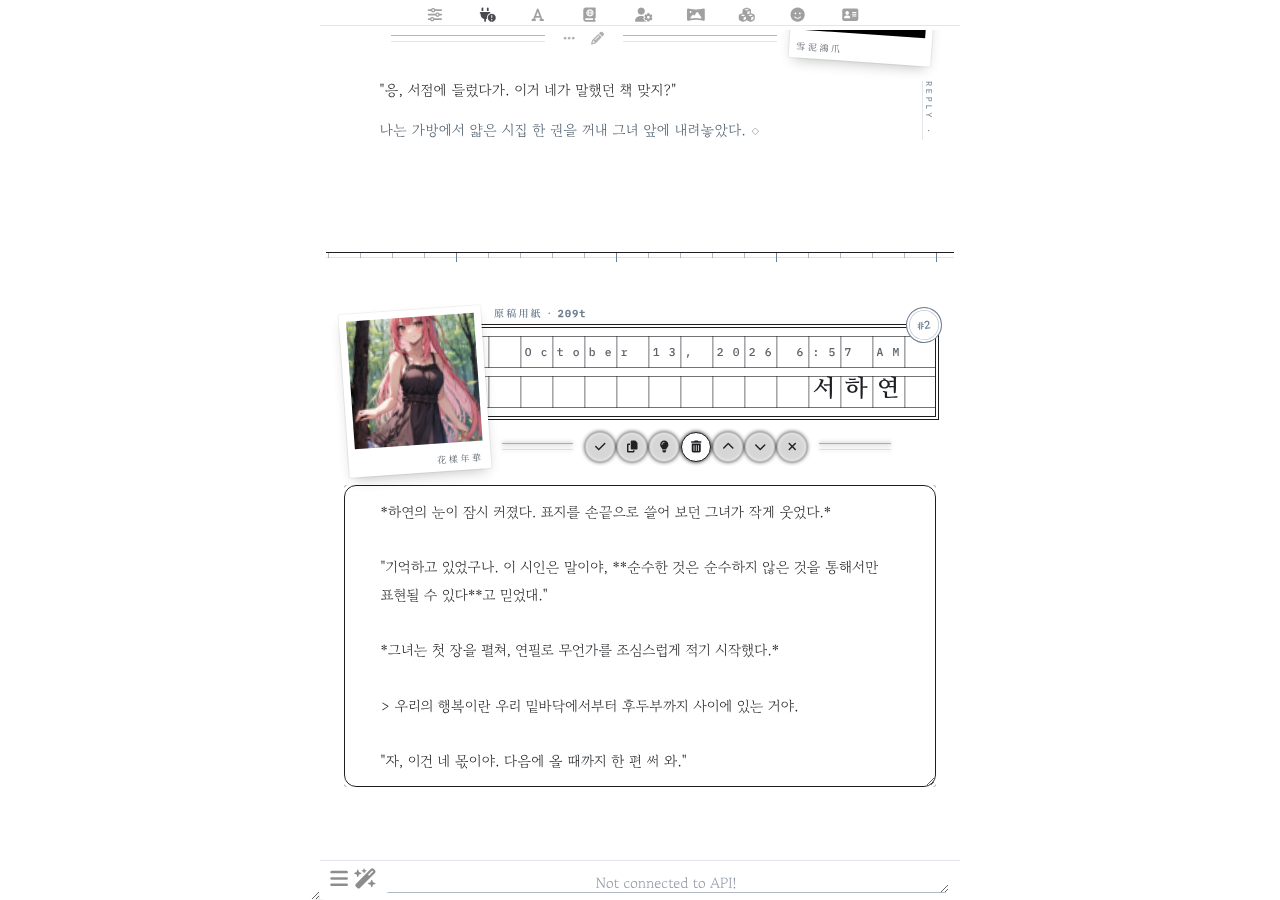
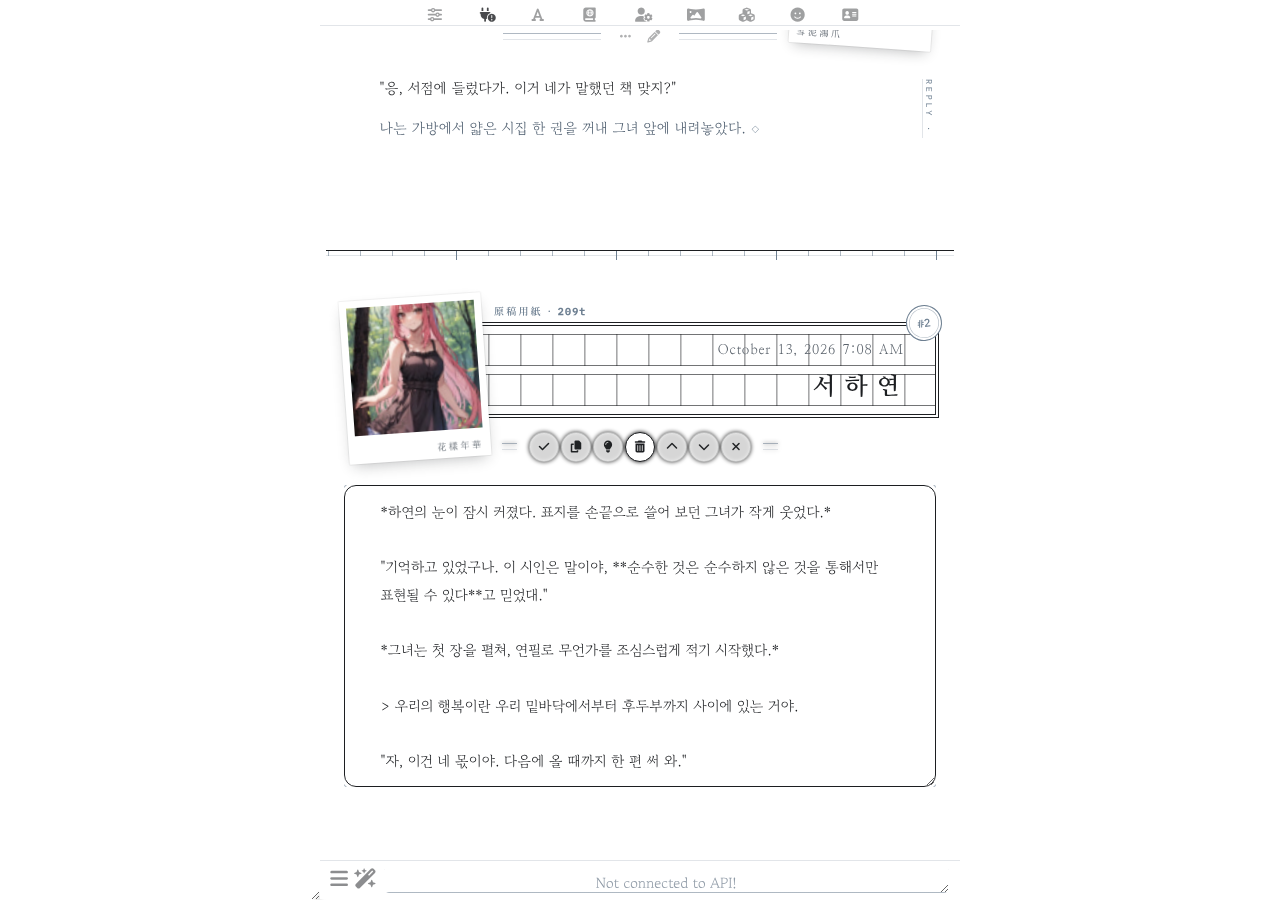
Wongoji: centre polaroid on the band, centred buttons, serif Latin
- Message laid out as a grid; the polaroid sits in the band's row,
  vertically centred on it however many rows the band grows to
- Message buttons centred between band and body
- Name text nudged down 0.055em so Myeongjo ink sits at cell centre
- Latin in names uses Courier Prime (serif monospace) for the half-cell
  face; the date is set in Nanum Myeongjo with tight tracking
- Polaroid caption moved onto the avatar so it follows the photo

Claude-Session: https://claude.ai/code/session_01VxNZVdN99GR1yFwUVAN4mT

diff --git a/src/wongoji.css b/src/wongoji.css
@@ -1,11 +1,20 @@
 @import url('https://fonts.googleapis.com/css2?family=Gowun+Batang:wght@400;700&family=Nanum+Myeongjo:wght@400;700;800&family=Noto+Serif+KR:wght@400;600&family=IBM+Plex+Mono:wght@400;500&display=swap');
 
 /* 원고지 칸 글꼴 — 한글은 나눔명조(한 칸), 영문·숫자·문장부호·띄어쓰기는
-   크기를 줄인 고정폭 글꼴(반 칸). 원고지 규칙대로 영문·숫자는 한 칸에 두 자. */
+   크기를 줄인 고정폭 명조(Courier Prime, 반 칸). 원고지 규칙대로 영문·숫자는 한 칸에 두 자. */
 @font-face {
     font-family: 'WG Cell Latin';
-    src: url(https://fonts.gstatic.com/s/ibmplexmono/v20/-F6qfjptAgt5VM-kVkqdyU8n3twJwlBFgg.woff2) format('woff2');
-    font-weight: 100 900;
+    src: url(https://fonts.gstatic.com/s/courierprime/v11/u-450q2lgwslOqpF_6gQ8kELawFpWg.woff2) format('woff2');
+    font-weight: 400;
+    unicode-range: U+0000-00FF, U+0131, U+0152-0153, U+02BB-02BC, U+02C6, U+02DA, U+02DC, U+2000-206F, U+20AC, U+2122;
+    size-adjust: 47.222%;
+    font-display: swap;
+}
+
+@font-face {
+    font-family: 'WG Cell Latin';
+    src: url(https://fonts.gstatic.com/s/courierprime/v11/u-4k0q2lgwslOqpF_6gQ8kELY7pMT-Dfqw.woff2) format('woff2');
+    font-weight: 700;
     unicode-range: U+0000-00FF, U+0131, U+0152-0153, U+02BB-02BC, U+02C6, U+02DA, U+02DC, U+2000-206F, U+20AC, U+2122;
     size-adjust: 47.222%;
     font-display: swap;
@@ -192,7 +201,6 @@ body {
     --wg-pitch: calc(var(--wg-cell) + var(--wg-gap));
     --wg-pol-w: calc(var(--wg-photo) + var(--wg-frame) * 2);
     --wg-pol-h: calc(var(--wg-photo) + var(--wg-frame) + var(--wg-chin));
-    --wg-pol-top: calc(var(--wg-pad) - var(--wg-cell) * 0.55);
     --wg-band-near: calc(var(--wg-side) + var(--wg-pol-w) * 0.42);
     --wg-band-far: var(--wg-side);
     /* 칸 글꼴: 글자 크기 = 칸의 75%.
@@ -205,7 +213,13 @@ body {
     --wg-band-frame: var(--wg-ink);
     --wg-band-line: rgba(28, 30, 33, 0.62);
 
-    display: block;
+    /* 1행: 폴라로이드 + 원고지 띠 / 2행: 버튼 / 그 아래: 본문 */
+    display: grid;
+    grid-template-columns:
+        calc(var(--wg-pol-w) * 0.42)
+        calc(var(--wg-pol-w) * 0.58)
+        minmax(0, 1fr);
+    align-items: start;
     position: relative;
     padding: var(--wg-pad) var(--wg-side) var(--wg-after);
     margin: 0;
@@ -235,40 +249,52 @@ body {
 }
 
 /* 폴라로이드 아래 글씨 — 아바타와 같은 상자를 같은 각도로 */
-#chat .mes::after {
+#chat .mes .avatar::after {
     content: var(--wg-caption-char);
     position: absolute;
-    top: var(--wg-pol-top);
-    left: var(--wg-side);
-    width: var(--wg-pol-w);
-    height: var(--wg-pol-h);
-    box-sizing: border-box;
-    /* 아래 여백의 오른쪽 구석에 작게 */
-    padding: calc(var(--wg-photo) + var(--wg-frame) + var(--wg-chin) * 0.38) var(--wg-frame) 0;
-    transform: rotate(var(--wg-tilt));
+    left: var(--wg-frame);
+    right: var(--wg-frame);
+    bottom: calc(var(--wg-chin) * 0.2);
     text-align: right;
     font-family: var(--wg-hanja);
     font-size: calc(var(--wg-chin) * 0.32);
     font-weight: 400;
     letter-spacing: 0.3em;
-    line-height: calc(var(--wg-chin) * 0.45);
+    line-height: 1.2;
     color: var(--wg-ink-soft);
     white-space: nowrap;
     overflow: hidden;
-    text-overflow: ellipsis;
     pointer-events: none;
-    z-index: 3;
 }
 
-#chat .mes .mesAvatarWrapper {
+#chat .mes .mesAvatarWrapper,
+#chat .mes .mes_block,
+#chat .mes .ch_name,
+#chat .mes .ch_name > .flex-container {
     display: contents;
 }
 
+#chat .mes .for_checkbox {
+    position: absolute;
+    width: 0;
+    height: 0;
+}
+
+#chat .mes .mes_reasoning_details { grid-row: 3; grid-column: 1 / -1; }
+#chat .mes .mes_text              { grid-row: 4; grid-column: 1 / -1; }
+#chat .mes .mes_media_wrapper     { grid-row: 5; grid-column: 1 / -1; }
+#chat .mes .mes_file_wrapper      { grid-row: 6; grid-column: 1 / -1; }
+#chat .mes .mes_bias              { grid-row: 7; grid-column: 1 / -1; }
+
 /* 폴라로이드 */
 #chat .mes .avatar {
-    position: absolute;
-    top: var(--wg-pol-top);
-    left: var(--wg-side);
+    /* 띠 높이와 상관없이 띠의 세로 가운데에. 위아래 음수 여백으로 행 높이에는 끼어들지 않습니다 */
+    grid-row: 1;
+    grid-column: 1 / 3;
+    align-self: center;
+    justify-self: start;
+    position: relative;
+    margin: calc(var(--wg-pol-h) / -2) 0;
     width: var(--wg-pol-w);
     height: var(--wg-pol-h);
     box-sizing: border-box;
@@ -320,9 +346,14 @@ body {
 /* 날짜 — 이름 위 줄 */
 #chat .mes .timestamp {
     order: -1;
-    color: var(--wg-ink-soft);
+    /* 날짜는 칸에 맞추지 않고 명조로 촘촘하게 */
+    font-family: var(--wg-title) !important;
+    font-size: calc(var(--wg-cell) * 0.42) !important;
     font-weight: 400;
-    word-spacing: 0;
+    letter-spacing: 0.06em !important;
+    word-spacing: 0.12em;
+    color: var(--wg-ink-soft);
+    padding-right: calc(var(--wg-cell) * 0.15) !important;
 }
 
 #chat .mes .mes_timer {
@@ -412,6 +443,8 @@ body.no-tokenCount #chat .mes .ch_name::after {
 
 #chat .mes .ch_name > .flex-container > .flex-container {
     --wg-k: 1;                    /* 끝에서 비워 둘 칸 */
+    grid-row: 1;
+    grid-column: 2 / 4;
     position: relative;
     box-sizing: border-box;
     display: flex;
@@ -419,7 +452,7 @@ body.no-tokenCount #chat .mes .ch_name::after {
     align-items: flex-end;
     gap: 0;
     width: auto;
-    margin: 0 0 14px calc(var(--wg-band-near) - var(--wg-side));
+    margin: 0 0 16px;
     /* 폴라로이드 쪽은 가리지 않도록 비우고, 끝은 칸 경계에 맞춥니다 */
     padding:
         calc(var(--wg-gap) / 2)
@@ -468,6 +501,9 @@ body.no-tokenCount #chat .mes .ch_name::after {
 }
 
 #chat .mes .name_text {
+    position: relative;
+    /* 명조 한글의 먹 중심이 줄 가운데보다 0.055em 위에 있어 그만큼 내립니다 */
+    top: 0.055em;
     font-weight: 700;
     /* 띄어쓰기도 한 칸 */
     word-spacing: calc(var(--wg-cell) / 2);
@@ -490,21 +526,6 @@ body.no-tokenCount #chat .mes .ch_name::after {
     overflow: visible;
 }
 
-#chat .mes .ch_name {
-    display: flex;
-    flex-direction: column;
-    align-items: center;
-    min-height: 0;
-    gap: 0;
-}
-
-#chat .mes .ch_name > .flex-container {
-    flex: none;
-    display: block;
-    align-self: stretch;
-    height: auto;
-}
-
 /* 메시지 버튼 — 띠와 본문 사이, 양옆으로 가는 괘선을 그은 구분 줄 */
 #chat .mes .mes_buttons,
 #chat .mes .mes_edit_buttons {
@@ -513,8 +534,10 @@ body.no-tokenCount #chat .mes .ch_name::after {
     align-self: stretch;
     float: none;
     gap: 2px;
-    /* 폴라로이드 자리를 비워 둡니다 */
-    margin: 0 var(--wg-measure) 18px calc(var(--wg-pol-w) + 6px);
+    grid-row: 2;
+    grid-column: 1 / -1;
+    /* 가운데 정렬. 폴라로이드가 내려와도 겹치지 않게 양쪽을 똑같이 비웁니다 */
+    margin: 0 calc(var(--wg-pol-w) + 6px) 18px;
     min-height: 36px;
     overflow: visible;
 }
@@ -905,20 +928,27 @@ body.no-tokenCount #chat .mes .ch_name::after {
         0 4px;
 }
 
-#chat .mes[is_user="true"]::after {
+#chat .mes[is_user="true"] {
+    grid-template-columns:
+        minmax(0, 1fr)
+        calc(var(--wg-pol-w) * 0.58)
+        calc(var(--wg-pol-w) * 0.42);
+}
+
+#chat .mes[is_user="true"] .avatar {
+    grid-column: 2 / 4;
+    justify-self: end;
+}
+
+#chat .mes[is_user="true"] .avatar::after {
     content: var(--wg-caption-user);
     text-align: left;
 }
 
-#chat .mes[is_user="true"]::after,
-#chat .mes[is_user="true"] .avatar {
-    left: auto;
-    right: var(--wg-side);
-}
-
 #chat .mes[is_user="true"] .ch_name > .flex-container > .flex-container {
     align-items: flex-start;
-    margin: 0 calc(var(--wg-band-near) - var(--wg-side)) 14px 0;
+    grid-column: 1 / 3;
+    margin: 0 0 16px;
     padding:
         calc(var(--wg-gap) / 2)
         calc(var(--wg-pol-w) - var(--wg-pol-w) * 0.42 + 8px)
@@ -945,10 +975,7 @@ body.no-tokenCount #chat .mes .ch_name::after {
     transform: rotate(8deg);
 }
 
-#chat .mes[is_user="true"] .mes_buttons,
-#chat .mes[is_user="true"] .mes_edit_buttons {
-    margin: 0 calc(var(--wg-pol-w) + 6px) 18px var(--wg-measure);
-}
+
 
 #chat .mes[is_user="true"] .mes_ghost {
     left: auto;
@@ -961,10 +988,6 @@ body.no-tokenCount #chat .mes .ch_name::after {
 }
 
 /* 아바타 숨김 설정 — 띠만 남깁니다 */
-body.hideChatAvatars #chat .mes::after {
-    display: none;
-}
-
 body.hideChatAvatars #chat .mes {
     --wg-band-near: var(--wg-side);
     --wg-pol-w: 0px;

diff --git a/README.md b/README.md
@@ -10,19 +10,19 @@ SillyTavern UI 테마입니다. 흰 바탕과 먹, 청회색으로 인쇄된 원
 
 - **구분선**: 메시지 사이에는 원고지 낱장의 머리처럼 칸마다 눈금을 새긴 자가 놓입니다. 다섯 칸마다 긴 눈금이 들어갑니다.
 - **원고지 띠**: 메시지마다 정사각 칸과 줄 사이 틈, 이중 테두리로 된 원고지가 붙습니다. 캐릭터 원고지는 먹색 선, 유저 원고지는 청회색 선입니다.
-  - 윗줄에는 날짜, 아랫줄에는 이름을 적고, 끝 한 칸은 비웁니다.
-  - 원고지 쓰기 규칙대로 칸에 맞춰 적습니다. 한글은 한 칸에 한 자, 영문·숫자는 한 칸에 두 자, 이름의 띄어쓰기는 한 칸입니다.
-  - 이름이나 날짜가 길면 다음 줄로 넘어가고, 띠도 그만큼 늘어납니다. 글자가 잘리거나 폴라로이드에 가려지지 않습니다.
+  - 윗줄에는 날짜를 명조로 촘촘하게, 아랫줄에는 이름을 적고, 끝 한 칸은 비웁니다.
+  - 이름은 원고지 쓰기 규칙대로 칸 정중앙에 적습니다. 한글은 한 칸에 한 자, 영문은 명조 계열 고정폭 글꼴로 한 칸에 두 자, 띄어쓰기는 한 칸입니다.
+  - 이름이나 날짜가 길면 다음 줄로 넘어가고, 띠도 그만큼 늘어납니다. 폴라로이드는 늘어난 띠의 세로 가운데에 놓입니다.
   - 띠 위 여백에는 `原稿用紙 · 412t`처럼 메시지의 토큰 수가 인쇄됩니다. 토큰 수 표시(Message Token Count)를 끄면 `原稿用紙`만 남습니다.
   - 띠 모서리에는 채팅 번호가 원형 도장으로 찍힙니다.
 - **폴라로이드**: 아바타는 컬러 폴라로이드로 띠 위에 비스듬히 겹쳐 놓입니다. 아래 여백 구석에는 사자성어가 명조체로 작게 인쇄됩니다. 캐릭터는 `花樣年華`(화양연화, 인생에서 가장 아름다운 한때), 유저는 `雪泥鴻爪`(설니홍조, 눈 위에 남은 기러기 발자국처럼 덧없는 삶의 흔적)이고, 원하는 글귀로 쉽게 바꿀 수 있습니다(아래 참고).
-- **버튼 줄**: 띠와 본문 사이에 메시지 버튼을 두고, 그 양옆에 가는 이중 괘선을 그었습니다.
+- **버튼 줄**: 띠와 본문 사이 가운데에 메시지 버튼을 두고, 그 양옆에 가는 이중 괘선을 그었습니다.
 - **본문**: 가독성을 위해 틀과 칸 배경 없이 종이 위에 바로 씁니다. 본문 옆에 책등처럼 세로 표기(`MANUSCRIPT · 原稿`, `REPLY · 答書`)가 붙고, 글 끝에는 마침 기호 `◇`가 찍힙니다.
 - **문장 표현**: 대사와 본문은 먹색, 지문과 속마음은 청회색입니다. 인용(`>`)은 책 뒤표지의 제사(題辭)처럼 큰 따옴표가 달린 가운데 정렬 청회색 상자로, 장면 전환(`---`)은 `＊`로 보입니다.
 - **색**: 화면 요소는 흑백과 청회색만 씁니다(아바타 사진은 원래 색 그대로). 유저 원고지는 아주 옅은 청회색이고, 그림자와 블러는 없습니다.
 - **상단 메뉴 · 입력창**: 아이콘을 작게 줄여 가운데로 모으고, 연한 선 하나로만 구분했습니다. 모바일에서도 입력창 아이콘이 PC처럼 한 줄로 놓입니다.
 
-서체(Google Fonts): 고운바탕(본문), 나눔명조(이름·제목·인용), Noto Serif KR(한자 글귀), IBM Plex Mono(번호·날짜).
+서체(Google Fonts): 고운바탕(본문), 나눔명조(이름·날짜·제목·인용), Courier Prime(이름의 영문), Noto Serif KR(한자 글귀), IBM Plex Mono(번호·토큰 수).
 
 ## 설치
 
